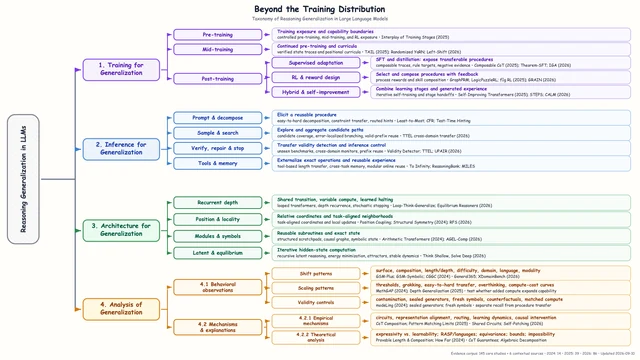
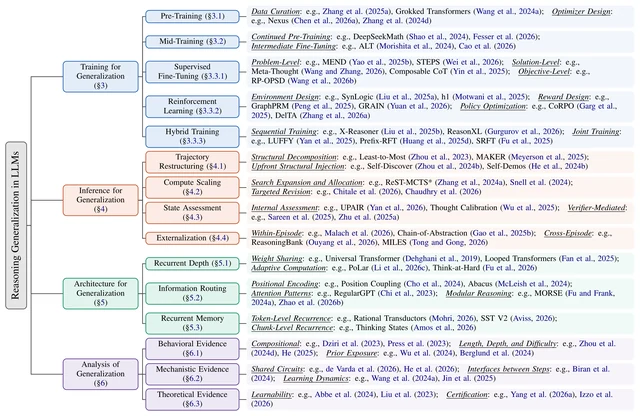
Use the paper's own taxonomy for the survey figure
Replaces the awesome-list repo's taxonomy graphic with Figure 1 of the survey
paper, the forest taxonomy of training, inference, architecture and analysis.

The paper typesets this figure from figure_sources/taxonomy.tex, and both
PDFs in its repo are out of date: figures/taxonomy.pdf is an older standalone
version (different branches and citations), and build/acl_latex.pdf dates from
Sep 11. So the figure was taken from a fresh tectonic build of the current
sources, with every citation and section reference resolved, and cropped
without its caption.

Full-size copy is 2400px wide because the citations are small. Same
filenames, so the URLs move to ?v=2.

diff --git a/index.html b/index.html
@@ -430,8 +430,8 @@
 
               <ol class="pubs" id="preprintList">
                 <li class="pub">
-                  <a class="pub-fig" href="assets/papers/survey-full.webp" target="_blank" rel="noopener" aria-label="Open the full-size figure">
-                    <img src="assets/papers/survey.webp" alt="Taxonomy of reasoning generalization in LLMs: training, inference, architecture and analysis" loading="lazy" decoding="async" />
+                  <a class="pub-fig" href="assets/papers/survey-full.webp?v=2" target="_blank" rel="noopener" aria-label="Open the full-size figure">
+                    <img src="assets/papers/survey.webp?v=2" alt="Taxonomy of reasoning generalization in LLMs: four branches (training, inference, architecture, analysis), each split into subtopics with representative papers" loading="lazy" decoding="async" />
                   </a>
                   <div class="pub-body">
                     <h3 class="pub-title">
